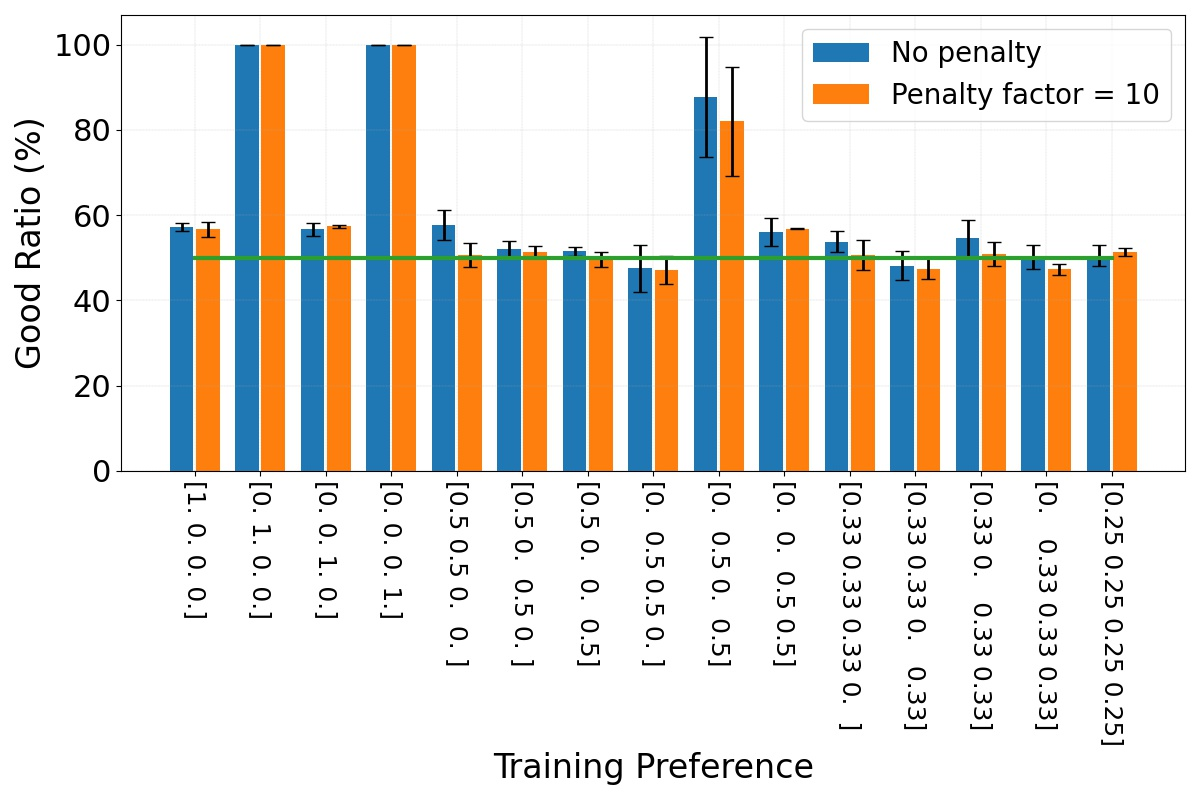
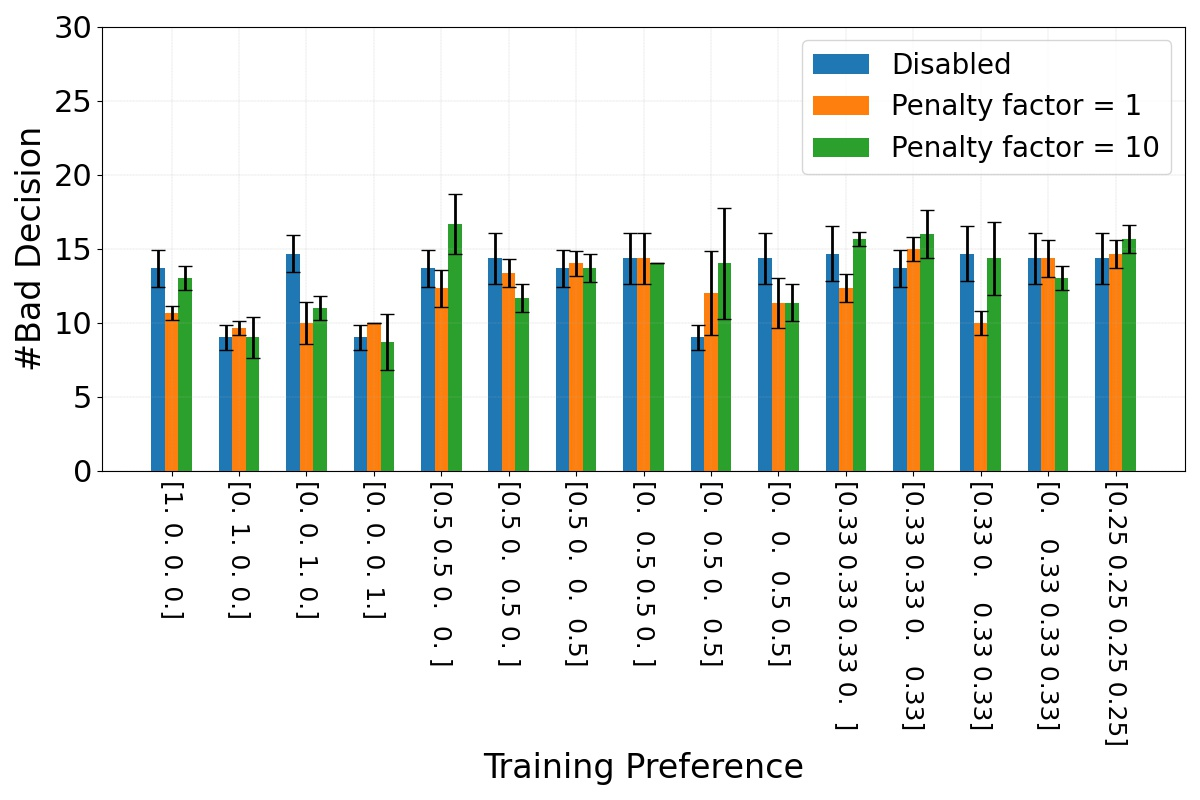
Working on emnist

diff --git a/ResultAnalysis/comparison_versus_performance.py b/ResultAnalysis/comparison_versus_performance.py
@@ -62,7 +62,7 @@ preference_combine_all = vfunc(preference_combine_all)
 
 result_map = {}
 result_map_comparison = {}
-
+result_map_comparison_base = {}
 
 baseline = read_traces_of_preference_penalty(
             dataset_name=dataset_name, model_name=model_name, initial_M=initial_M, initial_E=initial_E,
@@ -79,6 +79,7 @@ for preference in preference_combine_all:
         result_map[tuple(map_key)] = trace_result
 
         comparison_result = []
+        comparison_result_base = []
         # read raw traces
         for trace_id in trace_id_arr:
             trace_info = (True, dataset_name, model_name, initial_M, initial_E, *preference, penalty, trace_id)
@@ -88,9 +89,11 @@ for preference in preference_combine_all:
 
             round_id_arr = raw_trace[:, 0]
             model_accuracy_arr = raw_trace[:, 1]
+
             eta_zeta_arr_arr = raw_trace[:, 2:10]
             M_arr = raw_trace[:, 10]
             E_arr = raw_trace[:, 11]
+
             compT_arr = raw_trace[:, 12]
             transT_arr = raw_trace[:, 13]
             compL_arr = raw_trace[:, 14]
@@ -98,24 +101,106 @@ for preference in preference_combine_all:
 
             good_comparison = 0
             bad_comparison = 0
+
+            a_prv = model_accuracy_arr[0]
+            eps = 0.01
+            compT_prv = compT_arr[0] / a_prv
+            transT_prv = transT_arr[0] / a_prv
+            compL_prv = compL_arr[0] / a_prv
+            transL_prv = transL_arr[0] / a_prv
+
             for i_row in range(1, len(raw_trace)):
 
-                I = alpha * (compT_arr[i_row] - compT_arr[i_row-1]) / compT_arr[i_row-1] + \
-                    beta * (transT_arr[i_row] - transT_arr[i_row-1]) / transT_arr[i_row-1] + \
-                    gamma * (compL_arr[i_row] - compL_arr[i_row-1]) / compL_arr[i_row-1] + \
-                    delta * (transL_arr[i_row] - transL_arr[i_row-1]) / transL_arr[i_row-1]
+                a_cur = model_accuracy_arr[i_row]
 
-                if I <= 0:
-                    good_comparison += 1
-                else:
-                    bad_comparison += 1
+                if a_cur - a_prv > eps:
+                    compT_cur = compT_arr[i_row] / (a_cur - a_prv)
+                    transT_cur = transT_arr[i_row] / (a_cur - a_prv)
+                    compL_cur = compL_arr[i_row] / (a_cur - a_prv)
+                    transL_cur = transL_arr[i_row] / (a_cur - a_prv)
+
+                    I = alpha * (compT_cur - compT_prv) / compT_prv + \
+                        beta * (transT_cur - transT_prv) / transT_prv + \
+                        gamma * (compL_cur - compL_prv) / compL_prv + \
+                        delta * (transL_cur - transL_prv) / transL_prv
+
+                    if I <= 0:
+                        good_comparison += 1
+                    else:
+                        bad_comparison += 1
+
+                    compT_prv = compT_cur
+                    transT_prv = transT_cur
+                    compL_prv = compL_cur
+                    transL_prv = transL_cur
+                    a_prv = a_cur
 
             comparison_result.append((good_comparison, bad_comparison))
+
+            # for baseline
+            if penalty == 1:
+                trace_info = (False, dataset_name, model_name, initial_M, initial_E, 0, 0, 0, 0, penalty, trace_id)
+                raw_trace, filename = read_trace(trace_info)
+
+                round_id_arr = raw_trace[:, 0]
+                model_accuracy_arr = raw_trace[:, 1]
+                eta_zeta_arr_arr = raw_trace[:, 2:10]
+                M_arr = raw_trace[:, 10]
+                E_arr = raw_trace[:, 11]
+                compT_arr = raw_trace[:, 12]
+                transT_arr = raw_trace[:, 13]
+                compL_arr = raw_trace[:, 14]
+                transL_arr = raw_trace[:, 15]
+
+                good_comparison = 0
+                bad_comparison = 0
+
+                a_prv = model_accuracy_arr[0]
+                eps = 0.01
+                compT_prv = compT_arr[0] / a_prv
+                transT_prv = transT_arr[0] / a_prv
+                compL_prv = compL_arr[0] / a_prv
+                transL_prv = transL_arr[0] / a_prv
+
+                for i_row in range(1, len(raw_trace)):
+
+                    a_cur = model_accuracy_arr[i_row]
+
+                    if a_cur - a_prv > eps:
+                        compT_cur = compT_arr[i_row] / (a_cur - a_prv)
+                        transT_cur = transT_arr[i_row] / (a_cur - a_prv)
+                        compL_cur = compL_arr[i_row] / (a_cur - a_prv)
+                        transL_cur = transL_arr[i_row] / (a_cur - a_prv)
+
+                        I = alpha * (compT_cur - compT_prv) / compT_prv + \
+                            beta * (transT_cur - transT_prv) / transT_prv + \
+                            gamma * (compL_cur - compL_prv) / compL_prv + \
+                            delta * (transL_cur - transL_prv) / transL_prv
+
+                        if I <= 0:
+                            good_comparison += 1
+                        else:
+                            bad_comparison += 1
+
+                        compT_prv = compT_cur
+                        transT_prv = transT_cur
+                        compL_prv = compL_cur
+                        transL_prv = transL_cur
+                        a_prv = a_cur
+
+                comparison_result_base.append((good_comparison, bad_comparison))
+
+
+
         result_map_comparison[tuple(map_key)] = comparison_result
 
+        if penalty == 1:
+            result_map_comparison_base[tuple(map_key)] = comparison_result_base
 
-result_compare_mean_comparison = np.zeros((len(preference_combine_all), 2))
-result_compare_std_comparison = np.zeros((len(preference_combine_all), 2))
+
+
+result_compare_mean_comparison = np.zeros((len(preference_combine_all), 3))
+result_compare_std_comparison = np.zeros((len(preference_combine_all), 3))
 for i_preference, preference in enumerate(preference_combine_all):
 
     map_key_left = tuple(np.append(preference, [penalty_arr[0]]))
@@ -123,14 +208,24 @@ for i_preference, preference in enumerate(preference_combine_all):
 
     ratio_arr = []
     for good_bad in result_map_comparison[map_key_left]:
-        ratio = good_bad[0] / (good_bad[0] + good_bad[1])
+        # ratio = good_bad[0] / (good_bad[0] + good_bad[1])
+        ratio = good_bad[1] / 100
         ratio_arr.append(ratio)
     result_compare_mean_comparison[i_preference, 0] = np.mean(ratio_arr)
     result_compare_std_comparison[i_preference, 0] = np.std(ratio_arr)
 
     ratio_arr = []
+    for good_bad in result_map_comparison_base[map_key_left]:
+        # ratio = good_bad[0] / (good_bad[0] + good_bad[1])
+        ratio = good_bad[1] / 100
+        ratio_arr.append(ratio)
+    result_compare_mean_comparison[i_preference, 2] = np.mean(ratio_arr)
+    result_compare_std_comparison[i_preference, 2] = np.std(ratio_arr)
+
+    ratio_arr = []
     for good_bad in result_map_comparison[map_key_right]:
-        ratio = good_bad[0] / (good_bad[0] + good_bad[1])
+        # ratio = good_bad[0] / (good_bad[0] + good_bad[1])
+        ratio = good_bad[1] / 100
         ratio_arr.append(ratio)
     result_compare_mean_comparison[i_preference, 1] = np.mean(ratio_arr)
     result_compare_std_comparison[i_preference, 1] = np.std(ratio_arr)
@@ -142,18 +237,22 @@ x_tick_labels = []
 for preference in preference_combine_all:
     x_tick_labels.append(str(preference))
 bar_width = 0.40
-plt.bar(x-bar_width/2, 100*result_compare_mean_comparison[:, 0], width=0.9*bar_width)
-plt.bar(x+bar_width/2, 100*result_compare_mean_comparison[:, 1], width=0.9*bar_width)
-plt.ylabel('Good Ratio (%)', fontsize=24)
+plt.bar(x-bar_width/2, 100*result_compare_mean_comparison[:, 2], width=0.5*bar_width)
+plt.bar(x, 100*result_compare_mean_comparison[:, 0], width=0.5*bar_width)
+plt.bar(x+bar_width/2, 100*result_compare_mean_comparison[:, 1], width=0.5*bar_width)
+# plt.ylabel('Good Ratio (%)', fontsize=24)
+plt.ylabel('#Bad Decision', fontsize=24)
 plt.xlabel('Training Preference', fontsize=24)
 plt.yticks(fontsize=22)
+plt.ylim([0, 30])
 plt.xticks(x, labels=x_tick_labels, rotation=270, fontsize=18)
-plt.legend(['No penalty', 'Penalty factor = 10'], loc='upper right', fontsize=20)
-plt.errorbar(x-bar_width/2, 100*result_compare_mean_comparison[:, 0], yerr=100*result_compare_std_comparison[:, 0], capsize=5, ecolor='k', elinewidth=2, ls='none')
+plt.legend(['Disabled', 'Penalty factor = 1', 'Penalty factor = 10'], loc='upper right', fontsize=20)
+plt.errorbar(x-bar_width/2, 100*result_compare_mean_comparison[:, 2], yerr=100*result_compare_std_comparison[:, 2], capsize=5, ecolor='k', elinewidth=2, ls='none')
+plt.errorbar(x, 100*result_compare_mean_comparison[:, 0], yerr=100*result_compare_std_comparison[:, 0], capsize=5, ecolor='k', elinewidth=2, ls='none')
 plt.errorbar(x+bar_width/2, 100*result_compare_mean_comparison[:, 1], yerr=100*result_compare_std_comparison[:, 1], capsize=5, ecolor='k', elinewidth=2, ls='none')
 plt.grid(linestyle='--', linewidth=0.2)
 plt.tight_layout()
-plt.plot(x, 50*np.ones((len(x), 1)), linewidth=3)
+# plt.plot(x, 50*np.ones((len(x), 1)), linewidth=3)
 image_filename = 'comparison_versus_performance.jpg'
 image_path = f'{project_dir}/Result/Image/{image_filename}'
 print(f'saving image to {image_path}')

diff --git a/Dataset/emnist/emnist_download_bak.py b/Dataset/emnist/emnist_download_bak.py
@@ -1,0 +1,50 @@
+"""
+    Download emnist dataset
+
+    We use the LEAF Github for downloading and some preprocessing
+    <https://github.com/TalwalkarLab/leaf>
+
+    Download files are saved to Download/speech_command/
+"""
+
+import os
+import pathlib
+
+# dataset name
+dataset_name = 'emnist'
+
+# absolute path to Download/
+download_dir = os.path.join(pathlib.Path(__file__).resolve().parents[2], 'Download')
+
+# absolute path to Download/{dataset_name}
+dataset_dir = os.path.join(download_dir, dataset_name)
+
+if os.path.isdir(dataset_dir):
+    # remove {dataset_dir} if exists
+    os.system(f'rm -rf {dataset_dir}')
+
+# create {dataset_name} directory
+os.mkdir(dataset_dir)
+
+# absolute path to Dataset/leaf
+leaf_dir = os.path.join(pathlib.Path(__file__).resolve().parents[2], 'Dataset/leaf')
+
+# absolute path to Dataset/leaf/data/femnist
+leaf_emnist_dir = os.path.join(leaf_dir, 'data/femnist')
+
+# swith to {leaf_emnist_dir}
+os.chdir(leaf_emnist_dir)
+
+# download
+os.system('./preprocess.sh -s niid -sf 1.0 -k 0 -t user')
+
+# move data for training and testing
+os.system(f'mv {leaf_emnist_dir}/data/train/all_data_0_niid_1_keep_0_train_9.json {dataset_dir}/')
+os.system(f'mv {leaf_emnist_dir}/data/test/all_data_0_niid_1_keep_0_test_9.json {dataset_dir}/')
+
+# remove all other intermediate files
+os.system(f'rm -rf {leaf_emnist_dir}/data/')
+os.system(f'rm -rf {leaf_emnist_dir}/meta/')
+
+print('Done!')
+

diff --git a/Dataset/emnist/emnist_download.py b/Dataset/emnist/emnist_download.py
@@ -1,0 +1,46 @@
+"""
+    Download emnist dataset.
+
+    Downloaded files are saved to Download/emnist/
+"""
+
+import os
+import pathlib
+
+# dataset name
+dataset_name = 'emnist'
+
+# url to download the speech-to-command dataset
+dataset_url = 'http://www.itl.nist.gov/iaui/vip/cs_links/EMNIST/matlab.zip'
+# compressed file
+compressed_filename = 'matlab.zip'
+
+# absolute path to Download/
+download_dir = os.path.join(pathlib.Path(__file__).resolve().parents[2], 'Download')
+
+# absolute path to Download/{dataset_name}
+dataset_dir = os.path.join(download_dir, dataset_name)
+
+# switch to FedTuning/Download/
+os.chdir(download_dir)
+
+if os.path.isdir(dataset_dir):
+    # remove {dataset_dir} if exists
+    os.system(f'rm -rf {dataset_dir}')
+
+# create {dataset_name} directory
+os.mkdir(dataset_name)
+# download dataset
+os.system(f'wget {dataset_url}')
+# move
+os.system(f'mv matlab.zip {dataset_name}')
+os.chdir(f'{dataset_name}')
+os.system('pwd')
+# uncompress dataset
+os.system(f'unzip {compressed_filename}')
+# remove compressed files to save a little bit disk
+os.system(f'rm {compressed_filename}')
+os.system(f'mv ./matlab/emnist-byclass.mat .')
+os.system('rm -rf matlab')
+
+print('Done!')

diff --git a/Dataset/emnist/emnist_preprocess.py b/Dataset/emnist/emnist_preprocess.py
@@ -1,0 +1,43 @@
+"""
+    Pre-process EMNIST dataset
+
+    Preprocessed data are saved to Download/emnist/_FedTuning/
+"""
+
+import os
+import pathlib
+import glob
+import re
+
+import numpy as np
+import matplotlib.pyplot as plt
+import scipy.io
+
+
+# dataset name
+dataset_name = 'emnist'
+
+# absolute path to FedTuning/Download/
+download_dir = os.path.join(pathlib.Path(__file__).resolve().parents[2], 'Download')
+
+# absolute path to /Download/{dataset_name}
+dataset_dir = os.path.join(download_dir, dataset_name)
+if not os.path.isdir(dataset_dir):
+    print(f'Error: dataset directory {dataset_dir} does not exist')
+    exit(-1)
+
+dataset_file = os.path.join(dataset_dir, 'emnist-byclass.mat')
+dataset_mat = scipy.io.loadmat(dataset_file)
+
+# images
+print(dataset_mat['dataset'][0][0][0][0][0][0].shape)
+print(len(np.unique(dataset_mat['dataset'][0][0][0][0][0][1])))
+print(len(np.unique(dataset_mat['dataset'][0][0][0][0][0][2])))
+
+img1 = dataset_mat['dataset'][0][0][0][0][0][0][10]
+img1 = np.array(img1)
+img1 = np.reshape(img1, (28, 28), order='F')
+plt.imshow(img1, cmap='gray')
+plt.show()
+
+print(dataset_mat['dataset'][0][0][0][0][0][1][10])

diff --git a/Dataset/speech_command/README.md b/Dataset/speech_command/README.md
@@ -1,0 +1,14 @@
+
+1. download dataset, which is saved to Download/speech_command/.  
+    ```python:
+    python Dataset/speech_command/speech_command_download.py
+    ```
+
+2. preprocess.
+    (1) separate clients' data for training, validation, and testing;
+    (2) transform audio clips to spectrograms;
+    (3) save spectrograms to jpg images.
+    Preprocessed data are saved to Download/speech_command/_FedTuning/
+      ```python:
+      python Dataset/speech_command/speech_command_preprocess.py
+      ```
